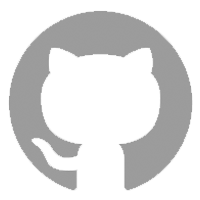
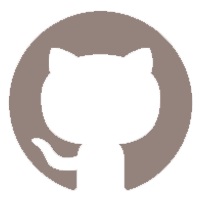
Styled more of contact section. Updated colors.

diff --git a/styles/partials/_contact.scss b/styles/partials/_contact.scss
@@ -1,22 +1,29 @@
 #contact {
     background-color: #AAC0AA;
+    padding-bottom: 150px;
 
     #contact-container {
         display: flex;
         justify-content: space-around;
+        background-color: #c6d6bc;
+        width: 75%;
+        margin: 0 auto;
 
         #form-container {
-            width: 30%; 
+            width: 40%; 
             
             form {
                 display: flex;
                 flex-direction: column;
+                padding: 50px 0px;
 
                 input {
-                    // background-color:#AAC0AA; 
                     font-family: $primary-font-type;
                     margin: 10px 0px;
                     padding: 5px;
+                    background-color: #AAC0AA;
+                    border: 1px solid #DCEED1;
+                    color: #111311;
                 }
 
                 .form-icons {
@@ -24,29 +31,58 @@
                     margin-right: 16px;
                     margin-top: -34px;
                     position: relative;
-                    z-index: 2;
+                    color: #94837c;
                 }
 
                 textarea {
                     font-family: $primary-font-type;
+                    background-color: #AAC0AA;
                     margin: 10px 0px;
                     padding: 5px;
+                    height: 100px;
+                }
+
+                input[type=text], textarea {
+                    outline: none;
+                    border: 1px solid #DDDDDD;
+                }
+
+                input[type=text]:focus, textarea:focus {
+                    box-shadow: 0 0 5px rgba(115,99,114, 1);
+                    border: 1px solid rgba(115,99,114, 1);
+                }
+
+                ::-webkit-input-placeholder {
+                    color: #585958;
                 }
 
                 #contact-submit {
-                    font-family: $primary-font-type;
+                    font-family: $highlight-font-type;
+                    background-color: #BAA49B;
+                    font-size: 1.5rem;
                     margin: 50%;
                     margin: 10px auto;
                     padding: 10px;
                 }
+
+                button {
+                    outline: none;
+                    box-shadow: 0 0 5px rgba(115,99,114, 1);
+                    border: 1px solid #DDDDDD;
+                }
+
+                button:focus {
+                    box-shadow: 0 0 5px rgba(115,99,114, 1);
+                    border: 1px solid rgba(115,99,114, 1);
+                }
             }
         }
 
-        #contact-container {
+        #info-container {
             display: flex;
             flex-direction: column;
             justify-content: center;
-            padding-bottom: 62px;
+            padding-bottom: 138px;
 
             div {
                 display: flex;

diff --git a/index.html b/index.html
@@ -62,7 +62,7 @@
                         <button name="submit" type="submit" id="contact-submit">Send away!</button>
                     </form>
                 </div>
-                <div id="contact-container">
+                <div id="info-container">
                     <div>
                         <img src="assets/location.png" alt="location" class="contact-icons">
                         <p>Charlotte, NC</p>
@@ -88,7 +88,6 @@
              <p>&copy; 2017 Lexi Michel</p>
         <p>Made with <i class="fa fa-coffee" aria-hidden="true"></i> and <i class="fa fa-heart" aria-hidden="true"></i></p>
         </div>
-    
     </footer>
     <script src="https://use.fontawesome.com/7fb1b7bdac.js"></script>   
     <script src="app.js"></script>

diff --git a/styles/partials/_footer.scss b/styles/partials/_footer.scss
@@ -2,7 +2,6 @@ footer {
     width: 100%;
     position: fixed;
     bottom: 0px;
-    left: 0px;
     text-align: center;
     background-color: $footer-bkgd-color;
 
